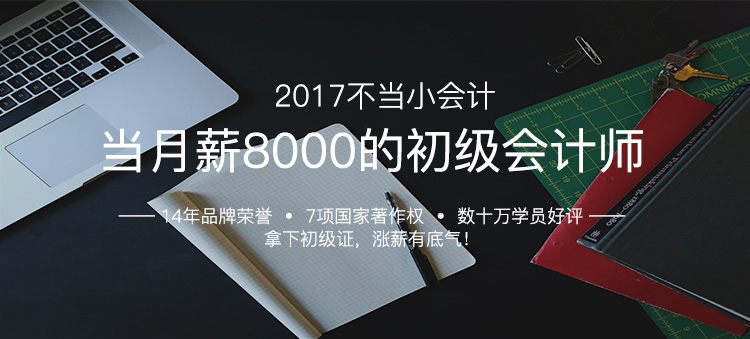
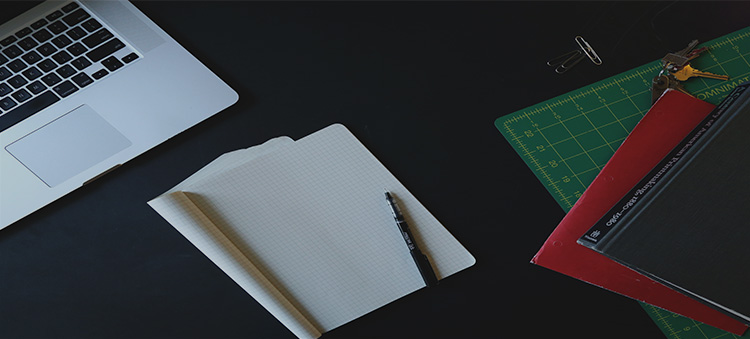
123
123

Changed region(s): [[0.1227, 0.3835, 0.8587, 0.531], [0.1533, 0.59, 0.828, 0.7375], [0.368, 0.236, 0.6747, 0.3245]]

diff --git a/hqzxAPP-H5/u-course-ty-1.html b/hqzxAPP-H5/u-course-ty-1.html
@@ -16,7 +16,35 @@
 	<body class="body-pad">
 		<div class="course-detail-head">
 			<div class="ban">
-				<img src="images/taoye/course-ty-cj-ban-img.jpg"/>
+				<div class="course-swiper-container">
+				    <div class="swiper-wrapper">
+				        <div class="swiper-slide">
+				        	<div class="relative">
+					        	<img src="images/taoye/course-ty-cj-ban-img.jpg"/>
+					        	<div class="t-h1 absolute"><i>2017不当小会计</i></div>
+					        	<div class="t-h2 absolute"><i>当月薪8000的初级会计师</i></div>
+					        	<div class="t-h3 absolute"><i>—— 14年品牌荣誉•7项国家著作权•数十万学员好评 ——<br />拿下初级证，涨薪有底气！</i></div>
+				        	</div>
+				        </div>
+				        <div class="swiper-slide">
+				        	<div class="relative">
+					        	<img src="images/taoye/course-ty-cj-ban-img.jpg"/>
+					        	<div class="t-h1 absolute"><i>7天</i></div>
+								<div class="t-h2 absolute"><i>在家也能拿下初级职称！</i></div>
+								<div class="t-h3 absolute"><i>—— 录播+直播双结合•一对一跟踪教学•快速通关秘诀 ——<br />升职不等人，备考要趁早！</i></div>
+							</div>
+				        </div>
+				        <div class="swiper-slide">
+				        	<div class="relative">
+					        	<img src="images/taoye/course-ty-cj-ban-img.jpg"/>
+					        	<div class="t-h1 absolute"><i>5年经验</i></div>
+								<div class="t-h2 absolute"><i>魅力女神直播助您一次通关</i></div>
+								<div class="t-h3 absolute"><i>—— 名师面对面•班级管理/互动•8小时内专家答疑 ——<br />有职称有能力，才有竞争力！</i></div>
+							</div>
+				        </div>
+				    </div>
+				    <div class="swiper-pagination"></div>
+				</div>
 			</div>
 			<div class="bot">
 				<div class="tit">猎才计划——面向零基础学员</div>

diff --git a/hqzxAPP-H5/css/course/u-course-ty-1.css b/hqzxAPP-H5/css/course/u-course-ty-1.css
@@ -63,6 +63,43 @@ img{
 	color:#999;
 }
 /*====================*/
+body{
+	overflow-x: hidden;
+}
+.ban .course-swiper-container{
+	position: relative;
+}
+.ban .swiper-slide{
+	text-align: center;
+	color:#fff;
+}
+/*.ban .course-swiper-container .swiper-pagination-bullet{
+	opacity: 0.2;
+}*/
+.ban .course-swiper-container .swiper-pagination-bullet-active{
+	background-color: #12C38C;
+	opacity: 1;
+}
+.ban .swiper-slide .t-h1,.ban .swiper-slide .t-h2,.ban .swiper-slide .t-h3{
+	width:100%;
+}
+.ban .swiper-slide .t-h1{
+	top:14%;
+}
+.ban .swiper-slide .t-h1 i{
+	font-size: 1.25em;
+}
+.ban .swiper-slide .t-h2{
+	top:28%;
+}
+.ban .swiper-slide .t-h2 i{
+	font-size: 2em;
+}
+.ban .swiper-slide .t-h3{
+	top:56%;
+	-webkit-transform: scale(0.8);
+}
+/*====================*/
 .ty-1{
 	background-color: #fff;
 }
@@ -566,5 +603,4 @@ img{
 .ty-9 .cont ul li.li-10{
 	font-size: 1.1em;
 	margin-top:-2em;
-	
 }

diff --git a/hqzxAPP-H5/js/com/taoye.js b/hqzxAPP-H5/js/com/taoye.js
@@ -1,6 +1,16 @@
 $(function(){
 	verticalScroll($(".ty-6 .cont .ul-out"));
+	courseCanSwiper();
 });
+
+function courseCanSwiper(){
+	var mySwiper = new Swiper('.course-swiper-container',{
+		pagination : '.swiper-pagination',
+		autoplay : 4000,
+		autoplayDisableOnInteraction: false,
+		loop: true,
+	});
+}
 
 function verticalScroll(outer){
 	var outer = outer;

diff --git a/hqzxAPP-H5/css/com/common-2.css b/hqzxAPP-H5/css/com/common-2.css
@@ -134,7 +134,7 @@ body{
 }
 .course-detail-head .bot{
 	padding: 4% 4%;
-	border:1px solid #eee;
+	border-bottom:1px solid #eee;
 }
 .course-detail-head .bot .tit{
 	font-size: 1.5em;
